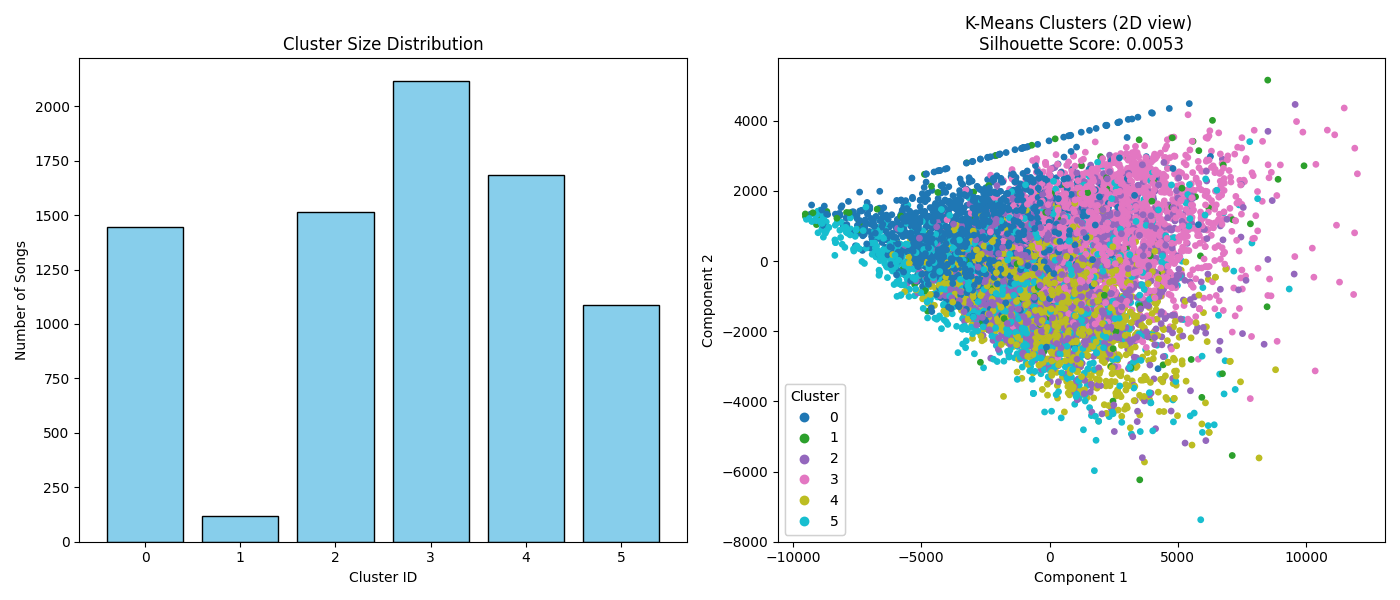
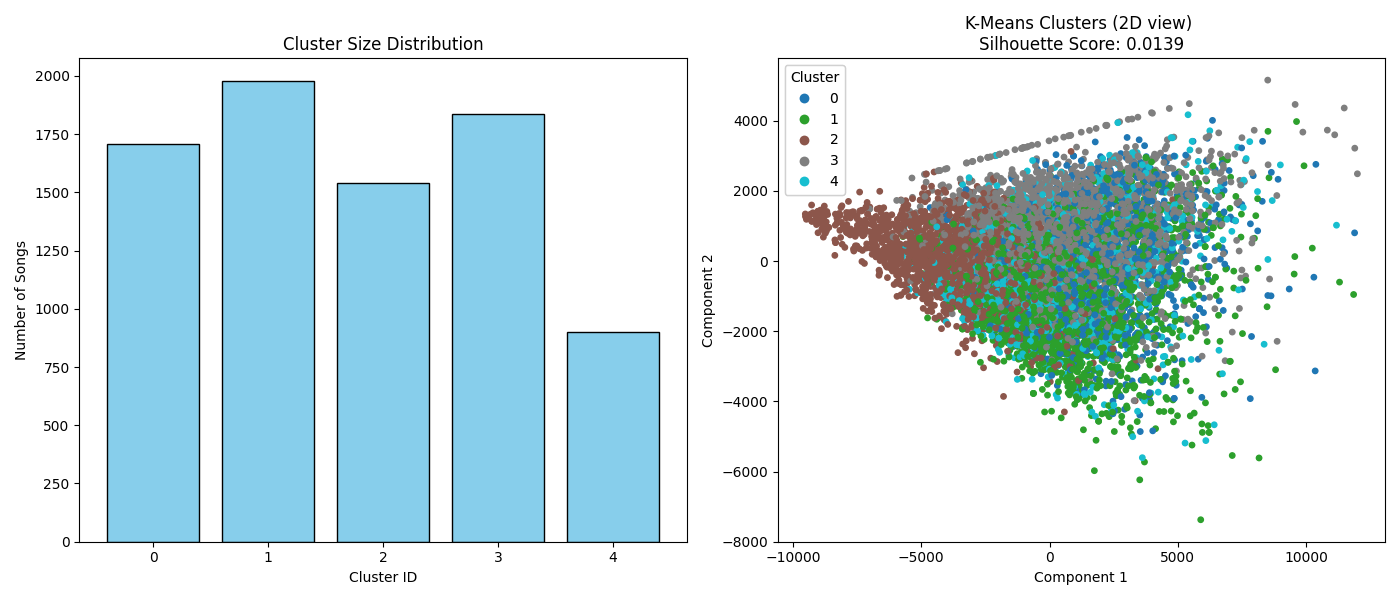
Update K-Means clustering documentation with detailed results, improved clarity, and added visualizations

diff --git a/clustering/k_means/k-means.md b/clustering/k_means/k-means.md
@@ -2,17 +2,22 @@
 
 ## Overview
 
-This project applies K-Means clustering to a dataset of music tracks, each represented by a high-dimensional feature vector derived from audio analysis and metadata. The feature vectors originally comprised **223 features per song**.  
-**Dimensionality reduction via PCA** (Principal Component Analysis) was performed prior to clustering to mitigate the challenges of high-dimensional data and retain the most informative components.
+This project applies K-Means clustering to a dataset of **7,963 music tracks**, each represented by a high-dimensional feature vector derived from audio analysis and metadata. The feature vectors originally comprised **223 features per song**.
+
+**Dimensionality reduction via PCA** (Principal Component Analysis) was performed prior to clustering to reduce dimensionality and retain the most informative components.
+
+---
 
 ## Clustering Methodology
 
 - **Algorithm:** K-Means
-- **Feature Vector Size:** 223 features (reduced with PCA before clustering)
+- **Feature Vector Size:** 223 features (reduced with PCA)
 - **Cluster Count (k):** Selected using the Elbow Method
 - **Evaluation Metrics:**
   - **Silhouette Score**
   - **Cluster Size Distribution**
+
+---
 
 ## Results
 
@@ -20,49 +25,59 @@ This project applies K-Means clustering to a dataset of music tracks, each repre
 
 | Cluster | Number of Songs |
 | ------- | --------------: |
-| 0       |            1445 |
-| 1       |             119 |
-| 2       |            1513 |
-| 3       |            2115 |
-| 4       |            1682 |
-| 5       |            1089 |
+| 0       |            1707 |
+| 1       |            1977 |
+| 2       |            1541 |
+| 3       |            1836 |
+| 4       |             902 |
 
-- Clusters are somewhat imbalanced. For example, cluster 1 is much smaller than others, and cluster 3 is the largest.
+> Note: Clusters are somewhat imbalanced. For example, cluster 4 is smaller than others, while cluster 1 is the largest.
+
+---
 
 ### 2. Silhouette Score
 
-- **Silhouette Score:** `0.0053`
+- **Silhouette Score:** `0.0139`
 
-**Interpretation:**  
-The silhouette score, ranging from -1 to 1, measures both how close each point in a cluster is to points in its own cluster vs. those in other clusters.
+The silhouette score ranges from -1 to 1:
 
-- A score **close to 1** means well-separated clusters.
-- A score **around 0** (like 0.0053 here) means clusters are highly overlapping or poorly defined.
+- **Close to 1:** Well-separated clusters
+- **Around 0:** Overlapping or poorly defined clusters (like in this case)
+
+---
+
+### 3. Graphical Representations
+
+#### K-Means Elbow Plot
+
+![K-Means Elbow Plot](../../images/k-means_elbow.png)
+
+#### Cluster Visualization (Optional)
+
+![K-Means Cluster Plot](../../images/k-means.png)
+
+> These visualizations show that even after PCA, music features overlap significantly, explaining the low silhouette score.
+
+---
 
 ## Why Are the Scores Low?
 
-- **Even with PCA, Music Data Remains Complex:**  
-  While PCA helps reduce dimensionality and noise, music data often lacks clear, hard boundaries between categories—musical characteristics may blend and overlap, making distinct clusters difficult.
-- **Feature Quality:**  
-  Not all extracted features may be equally relevant for perceptual grouping. Some features may introduce noise or redundancy, even after PCA.
-- **K-Means Limitations:**  
-  K-Means assumes clusters are spherical and equally sized, which may not fit the true structure of music data.
-- **Cluster Structure in Music:**  
-  Musical genres, moods, or styles often overlap, so clusters may not be well-separated in any feature space.
+1. **Complexity of Music Data:** Musical characteristics often overlap, making distinct clusters hard to define.
+2. **Feature Quality:** Not all audio features equally capture perceptual similarity; some may introduce noise.
+3. **K-Means Limitations:** Assumes spherical, equally-sized clusters, which may not match real music data structure.
+4. **Overlapping Musical Properties:** Genres, moods, and styles often blur together.
 
-## Graphical Representation
-
-![K-means Plot](../../images/k-means.png)
-
-So the visualization supports what we mean: with these complicated yet overlapping music features (even after PCA), K-Means doesn’t find well-separated groups in this music dataset.
+---
 
 ## Recommendations
 
-- Consider further feature engineering or selection to focus on the most musically meaningful features.
-- Try alternative clustering algorithms (GMM, DBSCAN, Agglomerative) that may find structure K-Means misses.
-- Inspect cluster quality visually (e.g., 2D/3D projections from PCA or t-SNE).
-- Experiment with different numbers of principal components in PCA and different values of k.
+- Try **alternative clustering algorithms**: Gaussian Mixture Models (GMM), DBSCAN, Agglomerative Clustering.
+- Refine **feature engineering/selection** to focus on perceptually meaningful features.
+- Visualize clusters using **2D/3D PCA or t-SNE** for interpretability.
+- Experiment with different **numbers of PCA components** and **values of k**.
+
+---
 
 ## Conclusion
 
-The low silhouette score suggests that, for this dataset and these features (even after PCA), K-Means is not able to find well-separated clusters. This is a common challenge with complex, high-dimensional data like music. Further exploration with other methods and feature engineering is recommended.
+K-Means struggles to produce well-separated clusters on this high-dimensional, complex music dataset. The low silhouette score indicates overlapping clusters, common in music data. **Further exploration with other clustering methods and feature engineering is recommended.**
